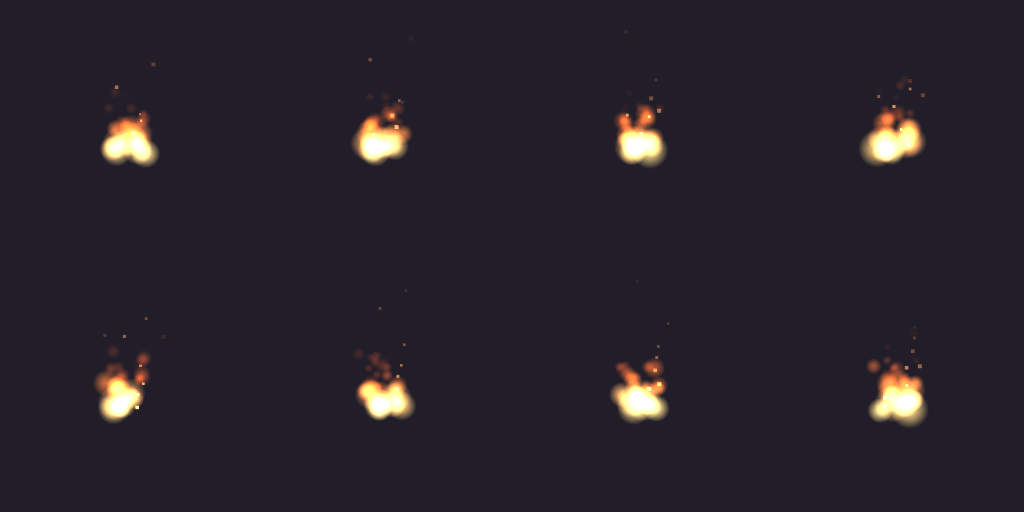
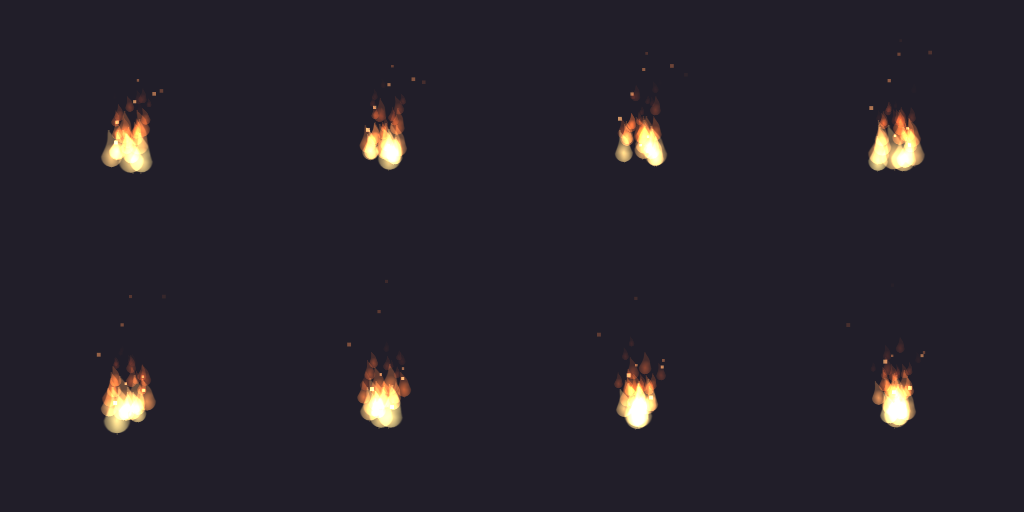
Document 0.9.0 stylized particle textures
README section with the texture sheet and before/after previews,
re-rendered example previews and screenshots, preset format and AI
guide texture advice, desktop export and verification notes, AUDIT
section 18, CLAUDE.md status.

Claude-Session: https://claude.ai/code/session_01QNXxnfVkdYajCu9VvWnLEJ

diff --git a/addons/oasis_fx/docs/ai_authoring_guide.md b/addons/oasis_fx/docs/ai_authoring_guide.md
@@ -23,9 +23,9 @@ A `vfx` preset describes one effect made of **1–8 emitters**. Each emitter bec
 > You are writing an OasisFx effect preset for Godot 4. Read
 > `addons/oasis_fx/docs/ai_authoring_guide.md` and `addons/oasis_fx/schemas/vfx.v1.schema.json`
 > first. Output only one JSON object that follows schema_version 1. Use only documented
-> fields; do not invent properties, scripts, URLs or files. Use a generated texture
-> (`soft_circle`, `hard_circle`, `ring`, `streak`, `square`) unless I give you an existing
-> `res://` texture path. Keep the total particle count between 20 and 150 unless I ask
+> fields; do not invent properties, scripts, URLs or files. Use a built-in texture
+> (`soft_circle`, `hard_circle`, `ring`, `streak`, `square`, `flame`, `smoke`, `spark`,
+> `shard`, `slash`) unless I give you an existing `res://` texture path. Keep the total particle count between 20 and 150 unless I ask
 > otherwise. Save it as `<id>.vfx.json`, then run
 > `godot --headless --path . --script res://addons/oasis_fx/cli/oasis_fx_cli.gd -- validate <file>`
 > and fix every error and warning before you finish. Do not modify gameplay scripts.
@@ -56,9 +56,17 @@ A `vfx` preset describes one effect made of **1–8 emitters**. Each emitter bec
 
 ## 4. Textures and other files
 
-- Prefer the generated textures: `soft_circle` (glows, fire, smoke), `hard_circle`
-  (sparks, embers), `ring` (shockwaves, scale it up with `scale_end_ratio`), `streak`
-  (shards, speed lines; set `align_to_velocity: true`), `square` (confetti, pixels).
+- Prefer the built-in textures. Generated shapes: `soft_circle` (glows, light mist),
+  `hard_circle` (embers, dots), `ring` (shockwaves, scale it up with `scale_end_ratio`),
+  `streak` (speed lines; set `align_to_velocity: true`), `square` (confetti).
+- For the game's stylized, hand-drawn look use the drawn images shipped with OasisFx:
+  `flame` (a flame tongue pointing up; keep `angle_min`/`angle_max` within about ±15 so it
+  stays upright, `blend_mode: "add"`), `smoke` (a lumpy puff; random angle −180 … 180, slow
+  `angular_velocity`, `mix` blend, grow it with `scale_end_ratio`), `spark` (four-point
+  twinkle for magic and success sparkles), `shard` (ice crystal pointing up; use
+  `align_to_velocity: true` so it points where it flies), `slash` (crescent for sword
+  trails and swipes). They are white with gray shading, so `color_start` … `color_end`
+  tint them. `texture_size_px` is their drawn size (the images are 64 px; 64 = scale 1).
 - To use an image, set `"texture": "file"` and `"texture_path": "res://…"`. The path must be
   an existing file **inside the project**, start with `res://`, contain no `..`, and end in
   png/webp/jpg/jpeg/svg/tres/res. URLs, `user://` and absolute paths are rejected.
@@ -138,9 +146,9 @@ sync with `presets/examples/`).
   "duration_seconds": 0.8,
   "loop": false,
   "emitters": [
-    {"id": "smoke", "kind": "particles_2d", "delay_seconds": 0.1, "amount": 10, "one_shot": true, "explosiveness": 0.6, "lifetime_seconds": 1.0, "lifetime_randomness": 0.3, "emission_shape": "circle", "emission_radius": 10, "direction_degrees": -90, "spread_degrees": 35, "initial_velocity_min": 30, "initial_velocity_max": 70, "gravity": [0, -60], "damping_min": 10, "damping_max": 20, "scale_min": 0.6, "scale_max": 1.0, "scale_end_ratio": 1.8, "color_start": "#4A3A3466", "color_end": "#2A222000", "texture": "soft_circle", "texture_size_px": 64, "z_index": -1},
-    {"id": "flame", "kind": "particles_2d", "amount": 40, "one_shot": true, "explosiveness": 0.9, "lifetime_seconds": 0.6, "lifetime_randomness": 0.35, "emission_shape": "circle", "emission_radius": 6, "direction_degrees": -90, "spread_degrees": 55, "initial_velocity_min": 140, "initial_velocity_max": 280, "gravity": [0, -220], "damping_min": 90, "damping_max": 160, "scale_min": 0.35, "scale_max": 0.8, "scale_end_ratio": 0.25, "color_start": "#FFE07AE6", "color_mid": "#FF6A1A99", "color_end": "#B8240C00", "texture": "soft_circle", "texture_size_px": 40, "blend_mode": "add"},
-    {"id": "embers", "kind": "particles_2d", "amount": 18, "one_shot": true, "explosiveness": 0.8, "lifetime_seconds": 0.9, "lifetime_randomness": 0.4, "emission_shape": "circle", "emission_radius": 6, "direction_degrees": -90, "spread_degrees": 70, "initial_velocity_min": 160, "initial_velocity_max": 320, "gravity": [0, 380], "damping_min": 20, "damping_max": 40, "scale_min": 0.6, "scale_max": 1.0, "color_start": "#FFF4C0FF", "color_end": "#FF7A2000", "texture": "hard_circle", "texture_size_px": 8, "blend_mode": "add"}
+    {"id": "smoke", "kind": "particles_2d", "delay_seconds": 0.1, "amount": 10, "one_shot": true, "explosiveness": 0.6, "lifetime_seconds": 1, "lifetime_randomness": 0.3, "emission_shape": "circle", "emission_radius": 10, "direction_degrees": -90, "spread_degrees": 35, "initial_velocity_min": 30, "initial_velocity_max": 70, "gravity": [0, -60], "damping_min": 10, "damping_max": 20, "angle_min": -180, "angle_max": 180, "angular_velocity_min": -40, "angular_velocity_max": 40, "scale_min": 0.6, "scale_max": 1, "scale_end_ratio": 1.8, "color_start": "#6A585099", "color_end": "#3A302C00", "texture": "smoke", "texture_size_px": 72, "z_index": -1},
+    {"id": "flame", "kind": "particles_2d", "amount": 40, "one_shot": true, "explosiveness": 0.9, "lifetime_seconds": 0.6, "lifetime_randomness": 0.35, "emission_shape": "circle", "emission_radius": 6, "direction_degrees": -90, "spread_degrees": 55, "initial_velocity_min": 140, "initial_velocity_max": 280, "gravity": [0, -220], "damping_min": 90, "damping_max": 160, "angle_min": -14, "angle_max": 14, "scale_min": 0.45, "scale_max": 0.95, "scale_end_ratio": 0.3, "color_start": "#FFE07AE6", "color_mid": "#FF6A1A99", "color_end": "#B8240C00", "hue_variation": 0.03, "texture": "flame", "texture_size_px": 64, "blend_mode": "add"},
+    {"id": "embers", "kind": "particles_2d", "amount": 18, "one_shot": true, "explosiveness": 0.8, "lifetime_seconds": 0.9, "lifetime_randomness": 0.4, "emission_shape": "circle", "emission_radius": 6, "direction_degrees": -90, "spread_degrees": 70, "initial_velocity_min": 160, "initial_velocity_max": 320, "gravity": [0, 380], "damping_min": 20, "damping_max": 40, "scale_min": 0.6, "scale_max": 1, "color_start": "#FFF4C0FF", "color_end": "#FF7A2000", "texture": "hard_circle", "texture_size_px": 8, "blend_mode": "add"}
   ]
 }
 ```
@@ -160,9 +168,9 @@ sync with `presets/examples/`).
   "loop": false,
   "emitters": [
     {"id": "shockwave", "kind": "particles_2d", "amount": 1, "one_shot": true, "explosiveness": 1, "lifetime_seconds": 0.45, "direction_degrees": 0, "spread_degrees": 0, "initial_velocity_min": 0, "initial_velocity_max": 0, "scale_min": 0.3, "scale_max": 0.3, "scale_end_ratio": 6, "color_start": "#E8FBFFFF", "color_mid": "#9FE6FFAA", "color_end": "#5FC8FF00", "texture": "ring", "texture_size_px": 128, "blend_mode": "add"},
-    {"id": "mist", "kind": "particles_2d", "delay_seconds": 0.05, "amount": 14, "one_shot": true, "explosiveness": 0.8, "lifetime_seconds": 0.9, "lifetime_randomness": 0.3, "emission_shape": "ring", "emission_radius": 60, "emission_inner_radius": 30, "direction_degrees": 0, "spread_degrees": 180, "initial_velocity_min": 10, "initial_velocity_max": 30, "tangential_accel_min": 40, "tangential_accel_max": 80, "scale_min": 0.8, "scale_max": 1.3, "scale_end_ratio": 1.4, "color_start": "#CFF5FF55", "color_end": "#8FD3FF00", "texture": "soft_circle", "texture_size_px": 64, "z_index": -1},
-    {"id": "shards", "kind": "particles_2d", "amount": 24, "one_shot": true, "explosiveness": 1, "lifetime_seconds": 0.55, "lifetime_randomness": 0.2, "emission_shape": "circle_outline", "emission_radius": 10, "direction_degrees": 0, "spread_degrees": 180, "initial_velocity_min": 220, "initial_velocity_max": 340, "damping_min": 300, "damping_max": 420, "scale_min": 0.7, "scale_max": 1.0, "scale_end_ratio": 0.4, "align_to_velocity": true, "color_start": "#FFFFFFFF", "color_mid": "#B8F0FFFF", "color_end": "#4FB4FF00", "texture": "streak", "texture_size_px": 32, "blend_mode": "add"},
-    {"id": "glints", "kind": "particles_2d", "delay_seconds": 0.15, "amount": 10, "one_shot": true, "explosiveness": 0.4, "lifetime_seconds": 0.4, "emission_shape": "circle", "emission_radius": 70, "direction_degrees": -90, "spread_degrees": 180, "initial_velocity_min": 0, "initial_velocity_max": 10, "scale_min": 0.5, "scale_max": 1.0, "scale_end_ratio": 0, "color_start": "#FFFFFFFF", "color_end": "#CFF6FF00", "texture": "hard_circle", "texture_size_px": 8, "blend_mode": "add"}
+    {"id": "mist", "kind": "particles_2d", "delay_seconds": 0.05, "amount": 14, "one_shot": true, "explosiveness": 0.8, "lifetime_seconds": 0.9, "lifetime_randomness": 0.3, "emission_shape": "ring", "emission_radius": 60, "emission_inner_radius": 30, "direction_degrees": 0, "spread_degrees": 180, "initial_velocity_min": 10, "initial_velocity_max": 30, "tangential_accel_min": 40, "tangential_accel_max": 80, "angle_min": -180, "angle_max": 180, "scale_min": 0.8, "scale_max": 1.3, "scale_end_ratio": 1.4, "color_start": "#CFF5FF55", "color_end": "#8FD3FF00", "texture": "smoke", "texture_size_px": 64, "z_index": -1},
+    {"id": "shards", "kind": "particles_2d", "amount": 24, "one_shot": true, "explosiveness": 1, "lifetime_seconds": 0.55, "lifetime_randomness": 0.2, "emission_shape": "circle_outline", "emission_radius": 10, "direction_degrees": 0, "spread_degrees": 180, "initial_velocity_min": 220, "initial_velocity_max": 340, "damping_min": 300, "damping_max": 420, "align_to_velocity": true, "scale_min": 0.7, "scale_max": 1, "scale_end_ratio": 0.4, "color_start": "#FFFFFFFF", "color_mid": "#B8F0FFFF", "color_end": "#4FB4FF00", "texture": "shard", "texture_size_px": 32, "blend_mode": "add"},
+    {"id": "glints", "kind": "particles_2d", "delay_seconds": 0.15, "amount": 10, "one_shot": true, "explosiveness": 0.4, "lifetime_seconds": 0.4, "emission_shape": "circle", "emission_radius": 70, "direction_degrees": -90, "spread_degrees": 180, "initial_velocity_min": 0, "initial_velocity_max": 10, "scale_min": 0.5, "scale_max": 1, "scale_end_ratio": 0, "color_start": "#FFFFFFFF", "color_end": "#CFF6FF00", "texture": "spark", "texture_size_px": 18, "blend_mode": "add"}
   ]
 }
 ```
@@ -203,9 +211,9 @@ sync with `presets/examples/`).
   "loop": false,
   "emitters": [
     {"id": "glow", "kind": "particles_2d", "amount": 1, "one_shot": true, "explosiveness": 1, "lifetime_seconds": 0.5, "direction_degrees": 0, "spread_degrees": 0, "initial_velocity_min": 0, "initial_velocity_max": 0, "scale_min": 1.2, "scale_max": 1.2, "scale_end_ratio": 1.6, "color_start": "#FFE89A99", "color_end": "#FFC24A00", "texture": "soft_circle", "texture_size_px": 128, "blend_mode": "add", "z_index": -1},
-    {"id": "steam", "kind": "particles_2d", "delay_seconds": 0.2, "amount": 6, "one_shot": true, "explosiveness": 0.3, "lifetime_seconds": 1.0, "emission_shape": "rect", "emission_rect_size": [60, 0], "direction_degrees": -90, "spread_degrees": 15, "initial_velocity_min": 30, "initial_velocity_max": 60, "gravity": [0, -30], "scale_min": 0.4, "scale_max": 0.6, "scale_end_ratio": 1.8, "color_start": "#FFFFFF40", "color_end": "#FFFFFF00", "texture": "soft_circle", "texture_size_px": 48},
-    {"id": "sparkles", "kind": "particles_2d", "amount": 22, "one_shot": true, "explosiveness": 0.85, "lifetime_seconds": 0.9, "lifetime_randomness": 0.3, "emission_shape": "circle", "emission_radius": 10, "direction_degrees": -90, "spread_degrees": 70, "initial_velocity_min": 150, "initial_velocity_max": 260, "gravity": [0, 320], "damping_min": 20, "damping_max": 40, "scale_min": 0.6, "scale_max": 1.1, "scale_end_ratio": 0.3, "color_start": "#FFF6C8FF", "color_mid": "#FFD45AFF", "color_end": "#FFB03000", "texture": "hard_circle", "texture_size_px": 10, "blend_mode": "add"},
-    {"id": "confetti", "kind": "particles_2d", "amount": 18, "one_shot": true, "explosiveness": 0.9, "lifetime_seconds": 1.1, "lifetime_randomness": 0.2, "emission_shape": "circle", "emission_radius": 8, "direction_degrees": -90, "spread_degrees": 60, "initial_velocity_min": 160, "initial_velocity_max": 260, "gravity": [0, 300], "damping_min": 40, "damping_max": 60, "angle_min": 0, "angle_max": 360, "angular_velocity_min": -540, "angular_velocity_max": 540, "scale_min": 0.6, "scale_max": 1.0, "hue_variation": 0.06, "color_start": "#FFB06AFF", "color_mid": "#FFB06AFF", "color_end": "#FFB06A00", "texture": "square", "texture_size_px": 8}
+    {"id": "steam", "kind": "particles_2d", "delay_seconds": 0.2, "amount": 6, "one_shot": true, "explosiveness": 0.3, "lifetime_seconds": 1, "emission_shape": "rect", "emission_rect_size": [60, 0], "direction_degrees": -90, "spread_degrees": 15, "initial_velocity_min": 30, "initial_velocity_max": 60, "gravity": [0, -30], "angle_min": -180, "angle_max": 180, "scale_min": 0.4, "scale_max": 0.6, "scale_end_ratio": 1.8, "color_start": "#FFFFFF40", "color_end": "#FFFFFF00", "texture": "smoke", "texture_size_px": 48},
+    {"id": "sparkles", "kind": "particles_2d", "amount": 22, "one_shot": true, "explosiveness": 0.85, "lifetime_seconds": 0.9, "lifetime_randomness": 0.3, "emission_shape": "circle", "emission_radius": 10, "direction_degrees": -90, "spread_degrees": 70, "initial_velocity_min": 150, "initial_velocity_max": 260, "gravity": [0, 320], "damping_min": 20, "damping_max": 40, "scale_min": 0.6, "scale_max": 1.1, "scale_end_ratio": 0.3, "color_start": "#FFF6C8FF", "color_mid": "#FFD45AFF", "color_end": "#FFB03000", "texture": "spark", "texture_size_px": 22, "blend_mode": "add"},
+    {"id": "confetti", "kind": "particles_2d", "amount": 18, "one_shot": true, "explosiveness": 0.9, "lifetime_seconds": 1.1, "lifetime_randomness": 0.2, "emission_shape": "circle", "emission_radius": 8, "direction_degrees": -90, "spread_degrees": 60, "initial_velocity_min": 160, "initial_velocity_max": 260, "gravity": [0, 300], "damping_min": 40, "damping_max": 60, "angle_min": 0, "angle_max": 360, "angular_velocity_min": -540, "angular_velocity_max": 540, "scale_min": 0.6, "scale_max": 1, "color_start": "#FFB06AFF", "color_mid": "#FFB06AFF", "color_end": "#FFB06A00", "hue_variation": 0.06, "texture": "square", "texture_size_px": 8}
   ]
 }
 ```
@@ -224,9 +232,9 @@ sync with `presets/examples/`).
   "duration_seconds": 1.0,
   "loop": true,
   "emitters": [
-    {"id": "smoke", "kind": "particles_2d", "amount": 6, "one_shot": false, "lifetime_seconds": 2.0, "preprocess_seconds": 2.0, "position": [0, -40], "emission_shape": "rect", "emission_rect_size": [20, 4], "direction_degrees": -90, "spread_degrees": 10, "initial_velocity_min": 20, "initial_velocity_max": 40, "scale_min": 0.6, "scale_max": 1.0, "scale_end_ratio": 2.0, "color_start": "#3A302C44", "color_end": "#2A222000", "texture": "soft_circle", "texture_size_px": 64, "z_index": -1},
-    {"id": "fire", "kind": "particles_2d", "amount": 30, "one_shot": false, "lifetime_seconds": 0.8, "lifetime_randomness": 0.3, "preprocess_seconds": 1.0, "emission_shape": "rect", "emission_rect_size": [36, 4], "direction_degrees": -90, "spread_degrees": 12, "initial_velocity_min": 40, "initial_velocity_max": 80, "gravity": [0, -80], "scale_min": 0.5, "scale_max": 0.9, "scale_end_ratio": 0.2, "color_start": "#FFE27AFF", "color_mid": "#FF6A1AAA", "color_end": "#8A1A0A00", "texture": "soft_circle", "texture_size_px": 48, "blend_mode": "add"},
-    {"id": "embers", "kind": "particles_2d", "amount": 8, "one_shot": false, "lifetime_seconds": 1.4, "preprocess_seconds": 1.0, "emission_shape": "rect", "emission_rect_size": [30, 4], "direction_degrees": -90, "spread_degrees": 20, "initial_velocity_min": 50, "initial_velocity_max": 110, "tangential_accel_min": -30, "tangential_accel_max": 30, "scale_min": 0.6, "scale_max": 1.0, "color_start": "#FFD27AFF", "color_end": "#FF5A1000", "texture": "hard_circle", "texture_size_px": 6, "blend_mode": "add"}
+    {"id": "smoke", "kind": "particles_2d", "position": [0, -40], "amount": 6, "one_shot": false, "lifetime_seconds": 2, "preprocess_seconds": 2, "emission_shape": "rect", "emission_rect_size": [20, 4], "direction_degrees": -90, "spread_degrees": 10, "initial_velocity_min": 20, "initial_velocity_max": 40, "angle_min": -180, "angle_max": 180, "angular_velocity_min": -30, "angular_velocity_max": 30, "scale_min": 0.6, "scale_max": 1, "scale_end_ratio": 2, "color_start": "#3A302C44", "color_end": "#2A222000", "texture": "smoke", "texture_size_px": 64, "z_index": -1},
+    {"id": "fire", "kind": "particles_2d", "amount": 30, "one_shot": false, "lifetime_seconds": 0.8, "lifetime_randomness": 0.3, "preprocess_seconds": 1, "emission_shape": "rect", "emission_rect_size": [36, 4], "direction_degrees": -90, "spread_degrees": 12, "initial_velocity_min": 40, "initial_velocity_max": 80, "gravity": [0, -80], "angle_min": -10, "angle_max": 10, "scale_min": 0.5, "scale_max": 0.9, "scale_end_ratio": 0.2, "color_start": "#FFE27AFF", "color_mid": "#FF6A1AAA", "color_end": "#8A1A0A00", "texture": "flame", "texture_size_px": 56, "blend_mode": "add"},
+    {"id": "embers", "kind": "particles_2d", "amount": 8, "one_shot": false, "lifetime_seconds": 1.4, "preprocess_seconds": 1, "emission_shape": "rect", "emission_rect_size": [30, 4], "direction_degrees": -90, "spread_degrees": 20, "initial_velocity_min": 50, "initial_velocity_max": 110, "tangential_accel_min": -30, "tangential_accel_max": 30, "scale_min": 0.6, "scale_max": 1, "color_start": "#FFD27AFF", "color_end": "#FF5A1000", "texture": "hard_circle", "texture_size_px": 6, "blend_mode": "add"}
   ]
 }
 ```

diff --git a/AUDIT.md b/AUDIT.md
@@ -290,3 +290,18 @@ tools/render_preview.gd               (dev) render contact sheet ผ่าน Xv
 | events: allow-list ด้วย path ทำให้ย้ายโฟลเดอร์ addon แล้ว effect หาย | ยอมรับทั้ง path เดิมและชื่อคลาส `OasisFxEffect`/`OasisSfxEffect` (`get_global_name()`) | เทสต์เดียวกัน (addon ที่ `res://plugins/oasis_fx`) |
 | `playback_speed` ตั้งหลัง spawn ไม่ถึงอนุภาค | setter เรียก `_apply_speed()` | test_playback_speed… |
 | แอป: pending action ค้าง, Save As เขียนทับไฟล์อื่น, effects ผิดชนิด, replay ตอน pause, รายการ id เก่า, sprite restart | แก้แต่ละจุด (ดู README) | 6 เทสต์ใน tests/test_app_ui.gd ล้มกับโค้ดเดิม |
+
+---
+
+## 18. ภาคผนวก (2026-10-17): 0.9.0 — texture อนุภาคแบบวาดมือ (สเปก §2)
+
+| เรื่อง | การตัดสินใจ | เหตุผล |
+|---|---|---|
+| ที่มาของรูป | วาดด้วยสูตรคณิตใน `tools/synth_particle_textures.gd` (value noise จาก hash, 4×4 supersampling), CC0 | ไม่ใช้งานของผู้อื่น ไม่มีปัญหา license; วาดซ้ำได้ไฟล์เดิมทุก byte (มีเทสต์) |
+| รูปแบบรูป | 64×64 สีขาว/เทา + alpha | ให้ color ramp เดิมย้อมสีได้ แสงเงาสีเทากลายเป็นสีเข้มของสีที่ย้อม ดูเหมือนรอยพู่กัน; ความละเอียดพอสำหรับอนุภาคและไม่ใช่ pixel art |
+| ขนาด | `texture_size_px` = ขนาดที่วาด (scale ใน ParticleProcessMaterial × size/64) | ความหมายของ field เหมือนกับ texture ที่สร้างเอง preset เขียนง่าย |
+| schema | เพิ่มค่าใน enum `texture` เท่านั้น (additive v1) | preset เดิมได้ผลเหมือนเดิมทุก byte (golden ของ Sword Slash ไม่เปลี่ยน) |
+| ใน scene ที่สร้าง | ext_resource ไปยัง `res://addons/oasis_fx/textures/<kind>.png` ไม่ฝังรูปใน scene | ไฟล์เล็ก diff อ่านง่าย; ใช้ placeholder ตอน generate (ไม่มี uid ของโปรเจกต์ใดติดไป) |
+| export เข้าเกม | คัดลอกรูปเป็นไฟล์ของ addon (kind `addon`) ไม่เตือนให้เปลี่ยน | เป็นส่วนของ OasisFx เหมือน runtime script ไม่ใช่สื่อตัวอย่าง |
+| preview ในแอป | ส่งตัวโหลดรูปให้ builder (ถ้าโหลดไม่ได้ใช้ placeholder) | เดิม preview ไม่โหลดรูปเลย (`texture: "file"` มองไม่เห็นมาตั้งแต่ Phase 1C) |
+| fixture ของ release build | เก็บข้อความ CLI เดิมของ fire_burst ไว้ที่ `fixtures/release_build/expected/` | fixture เป็นผลจาก release template ของ preset เวอร์ชันก่อน; ยังพิสูจน์ normalization ได้เหมือนเดิม |

diff --git a/addons/oasis_fx/docs/desktop.md b/addons/oasis_fx/docs/desktop.md
@@ -159,10 +159,11 @@ its events show and everything those scenes need (from the manifest next to them
 |---|---|
 | exists in the game at that path | `USE` — referenced, **never overwritten** |
 | is one of the files bundled with OasisFx (example sounds, sprite sheet, rig part images, example effects) | `CREATE` — copied into the game at the same path, with a warning to replace it before shipping |
+| is one of the addon's own stylized particle textures (`addons/oasis_fx/textures/`) | `CREATE` — copied like the runtime script, no warning (they are part of OasisFx) |
 | is missing from the game and not bundled | error: put the file into the game first (nothing is written) |
 
-Godot imports copied audio the next time the game is opened in the editor (or with
-`godot --headless --import`).
+Godot imports copied audio and images the next time the game is opened in the editor (or
+with `godot --headless --import`).
 
 The exported file is byte-identical to what `oasis_fx_cli.gd -- generate` writes inside
 the game at the same `res://` path (same stable UID), from source and from the packaged
@@ -233,7 +234,8 @@ validates, loads its audio from the package (real lengths on the timeline) and e
 with its runtime and audio files, the Chef Ladle Attack animation, Campfire Flame
 sprite frames and Oasis Chef rig validate, preview (rig stand-in / sheet / rig with its part
 images) and export, the Sand Serpent's body bends in the preview (`"rig_bending": true`),
-and every bundled
+Fire Burst's stylized flame texture draws in the preview and the exported game folder holds
+the addon's `textures/` images (`"stylized_textures": true`), and every bundled
 example generates exactly the CLI's text (`"matches_cli": true`). On Windows use
 `OasisFx.console.exe` (same arguments) to see the output in a console.
 
@@ -303,6 +305,19 @@ example generates exactly the CLI's text (`"matches_cli": true`). On Windows use
 | App with a window (Xvfb, software OpenGL): rig preview with skin, pose and a moved IK target; runtime demo with the generated rig reaching | **PASS** — images above and in README |
 | Launching `OasisFx.exe` on Windows; dragging IK targets with a real mouse | **NOT RUN** (no Windows; dragging was driven by code) |
 | Importing White Sahara's real `mannequin.tscn` | **NOT RUN** — the game repository is not in this session |
+
+## Verification status (0.9.0 — stylized particle textures, 2026-10-17)
+
+| Check | Result |
+|---|---|
+| Full suite (`run_tests.gd`, incl. `test_particle_textures.gd`) | **PASS** — 225 passed, 0 failed; same result on a fresh copy without `.godot/` and in a local simulation of the CI workflow |
+| Drawing tool run again → byte-identical PNGs; images 64 px, gray only, transparent around the shape (automated) | **PASS** |
+| Example previews rendered under Xvfb + llvmpipe (`docs/images/*_preview.png`): flames read as flame tongues, smoke as puffs, ice as faceted shards | **PASS** (visual, software renderer) |
+| App preview draws the images (automated: not placeholders; screenshot `docs/images/desktop_app.png`) | **PASS** |
+| Export copies `addons/oasis_fx/textures/*.png` without the "example file" warning; the scene loads and plays in a separate game after import (automated) | **PASS** |
+| Packaged Linux build `--smoke-test` into a Thai-named game folder: `"stylized_textures": true`, `"matches_cli": true`, `"rig_bending": true`, `"sound_mixdown": true`; exported images byte-identical; the scene loads in that game after `--import` | **PASS** |
+| Windows export (`OasisFx.exe` + console wrapper) | **PASS** (build only) |
+| Look on a real GPU; Windows launch | **NOT RUN** |
 
 ## Verification status (0.8.0 — WAV mixdown and CI, 2026-10-16)
 

diff --git a/addons/oasis_fx/docs/preset_format.md b/addons/oasis_fx/docs/preset_format.md
@@ -101,8 +101,8 @@ large images). Presets with generated textures produce the same scenes as before
 | `color_mid` | color |  | `""` | Optional color at half-life; "" = no middle stop. |
 | `color_end` | color |  | **required** | Color at death, #RRGGBB or #RRGGBBAA (alpha 00 fades out). |
 | `hue_variation` | number | 0.0 … 1.0 | `0.0` | Random hue shift per particle, 0 = none, 1 = full color wheel. |
-| `texture` | enum: `soft_circle`, `hard_circle`, `ring`, `streak`, `square`, `file` |  | `"soft_circle"` | Particle texture: generated soft_circle, hard_circle, ring, streak (tall soft ellipse) or square, or an image file (texture_path). |
-| `texture_size_px` | int | 4 … 256 | `32` | Size of the generated texture in pixels (streak: height; its width is a quarter). |
+| `texture` | enum: `soft_circle`, `hard_circle`, `ring`, `streak`, `square`, `flame`, `smoke`, `spark`, `shard`, `slash`, `file` |  | `"soft_circle"` | Particle texture: generated soft_circle, hard_circle, ring, streak (tall soft ellipse) or square; a hand-drawn-looking image shipped with OasisFx: flame (tongue pointing up), smoke (puff), spark (four-point twinkle), shard (ice crystal pointing up), slash (crescent); or an image file (texture_path). |
+| `texture_size_px` | int | 4 … 256 | `32` | Size of the particle texture in pixels (streak: height; its width is a quarter; flame … slash: the drawn size of the 64 px image). |
 | `texture_path` | res_path (png/webp/jpg/jpeg/svg/tres/res) |  | `""` | res:// path to a Texture2D; required when texture is "file". |
 | `blend_mode` | enum: `mix`, `add`, `sub`, `mul`, `premult_alpha` |  | `"mix"` | CanvasItemMaterial blend mode; "add" suits fire, sparks and glows. |
 | `local_coords` | bool |  | `false` | true = particles move with the emitter after spawning. |

diff --git a/addons/oasis_fx/README.md b/addons/oasis_fx/README.md
@@ -57,7 +57,9 @@ on the app.
 
 Generated scenes reference `res://addons/oasis_fx/src/runtime/oasis_fx_effect.gd` (effects)
 , `oasis_sfx_effect.gd` (sounds) or `oasis_rig.gd` + `oasis_animation_events.gd` (rigs), so a game that uses them must contain the addon (at
-least `src/runtime/`) at that path, plus the audio/image files the presets reference.
+least `src/runtime/`) at that path, plus the audio/image files the presets reference
+(effects that use the stylized `flame`, `smoke`, `spark`, `shard` or `slash` textures also
+need `textures/`).
 OasisFx only writes into the output folder you give it.
 
 ## Quick start
@@ -139,6 +141,7 @@ addons/oasis_fx/
   src/runtime/oasis_sfx_effect.gd playback script attached to generated sound scenes
   src/runtime/oasis_animation_events.gd  receives animation events (shows their effects)
   src/runtime/oasis_rig.gd       root script of generated rigs (skins, poses, IK lookups, bending parts)
+  textures/                      stylized particle images (flame, smoke, spark, shard, slash; CC0)
   schemas/                       JSON Schemas vfx/sfx/animation/sprite_frames/rig v1 (generated from the field tables)
   presets/examples/              example presets; audio/, sprites/ and rig_parts/ hold CC0 example files,
                                  rigs/chef_rig.tscn is the example character for the animations

diff --git a/CLAUDE.md b/CLAUDE.md
@@ -114,6 +114,13 @@ validator warning; an unused GridContainer per event leaked on every inspector r
 Phase 3; suite now ends without them). Regression tests fail on the old code. Full suite 218 passed, 0 failed (also on
 a fresh copy). Awaiting owner acceptance.
 
+**0.9.0 stylized particle textures (user requested "continue", 2026-10-17):** spec §2 visual direction — emitter
+`texture` gains `flame`, `smoke`, `spark`, `shard`, `slash` (additive enum values): 64 px white/gray CC0 images in
+`addons/oasis_fx/textures/` drawn by `tools/synth_particle_textures.gd` (byte-reproducible), referenced as ext_resources and
+scaled to `texture_size_px`; examples fire_burst / campfire_loop / ice_nova / cooking_success use them; exporter copies them as
+addon files; the app preview now loads real textures (file textures were invisible placeholders). Full suite 225 passed, 0 failed (also on a fresh copy); packaged Linux smoke test incl. `stylized_textures` passed;
+GPU look on real hardware and Windows launch NOT RUN. Awaiting owner acceptance.
+
 Stop after the requested milestone unless the user has requested a later one.
 Phase 1B expands the shared VFX core; Phase 1C implements desktop UI and Windows
 packaging. SFX, animation and rigging remain later milestones.
